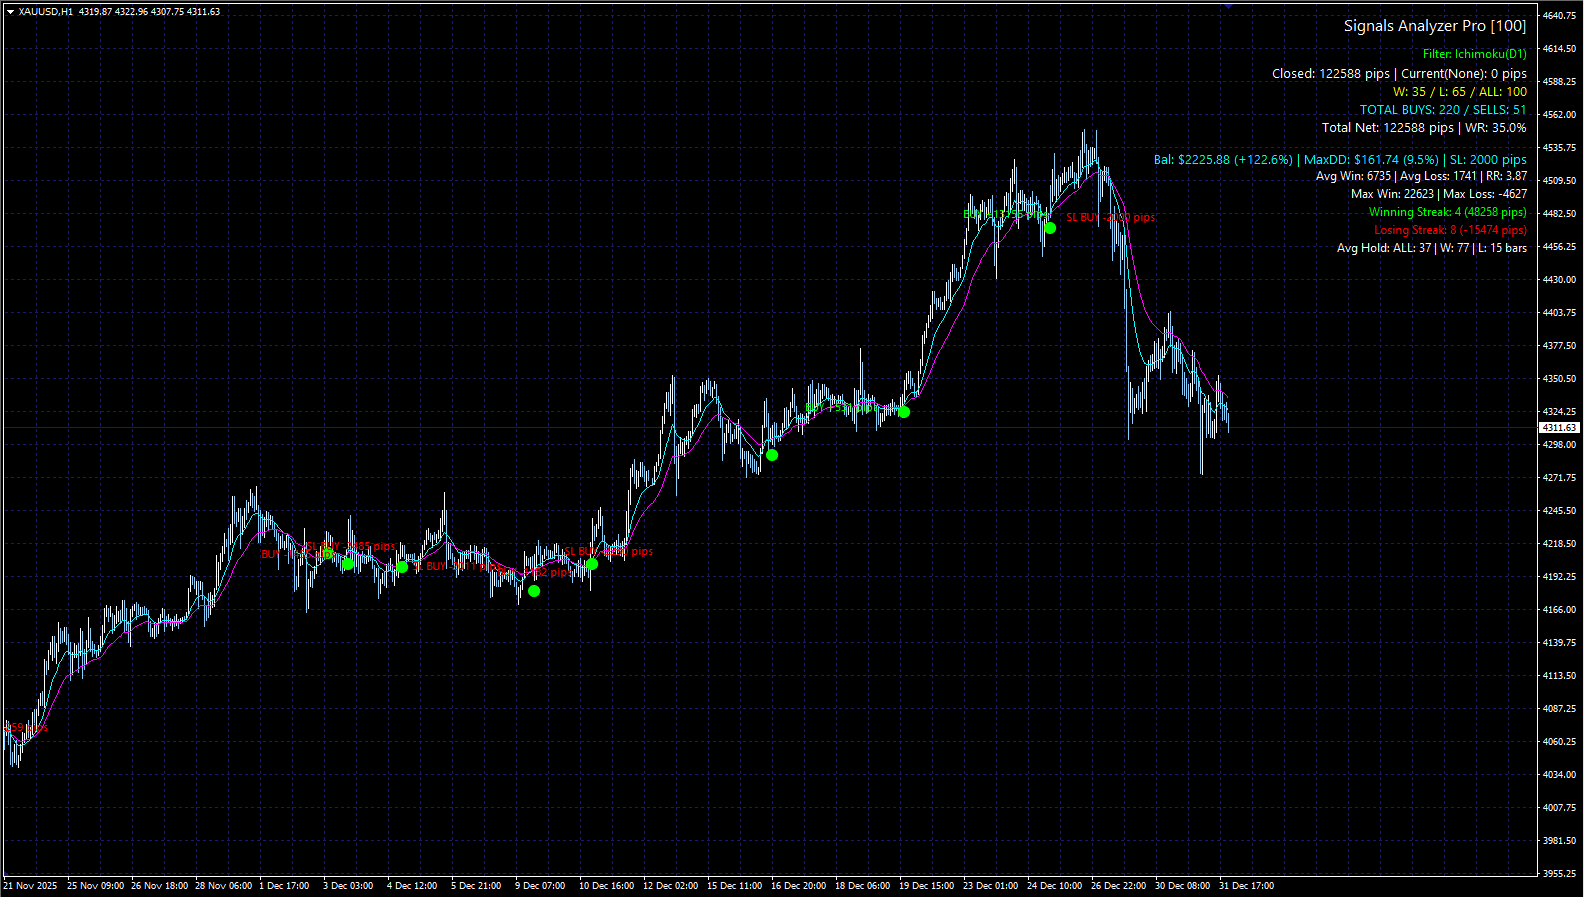
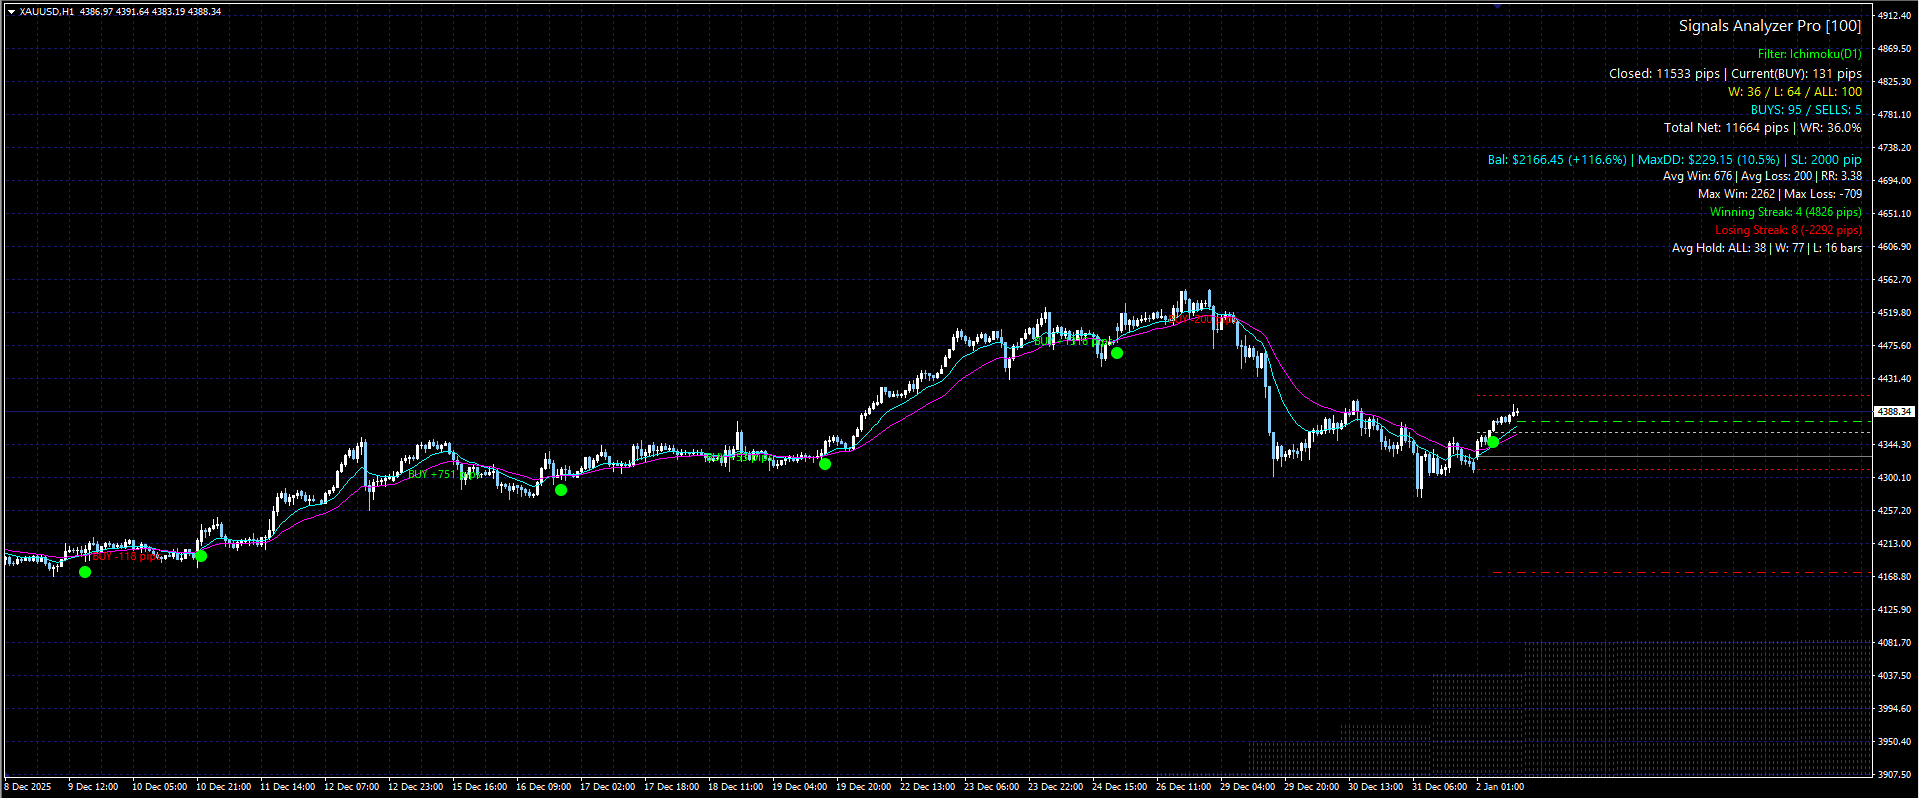
Feat: Limit signal display (arrows/labels) to the analytic window

diff --git a/README.md b/README.md
@@ -13,7 +13,7 @@ Advanced Moving Average Crossover indicator for MetaTrader 4, providing real-tim
 - **HTF Filtering**: Option to filter current timeframe signals by the trend of a Higher Timeframe (e.g., only buy on M15 if H4 trend is up).
 - **ADR Filter**: Option to filter trades based on remaining Average Daily Range (Upsize/Downsize %) to avoid buying at the top or selling at the bottom.
 - **Ichimoku Kumo Filter**: Validates signals based on the Ichimoku cloud position (Buy above Cloud, Sell below Cloud) with multi-timeframe support.
-- **Signal Analysis Limit**: Option to limit dashboard statistics to the last **X** trades (default 100) to focus on recent performance.
+- **Signal Analysis Limit**: Option to limit dashboard statistics and **on-chart signals** to the last **X** trades (default 100) to focus on recent performance and keep the chart clean.
 - **Average Holding Time**: Displays precisely how many bars on average winning and losing trades are held.
 - **Market Bias Filter**: Restrict the indicator to showing only Buy signals, only Sell signals, or both.
 - **ADR Filter & Visuals**: Validates signals based on the daily range and plots **Daily Open**, **ADR High/Low**, and **ADR Mid** lines directly on your chart.
